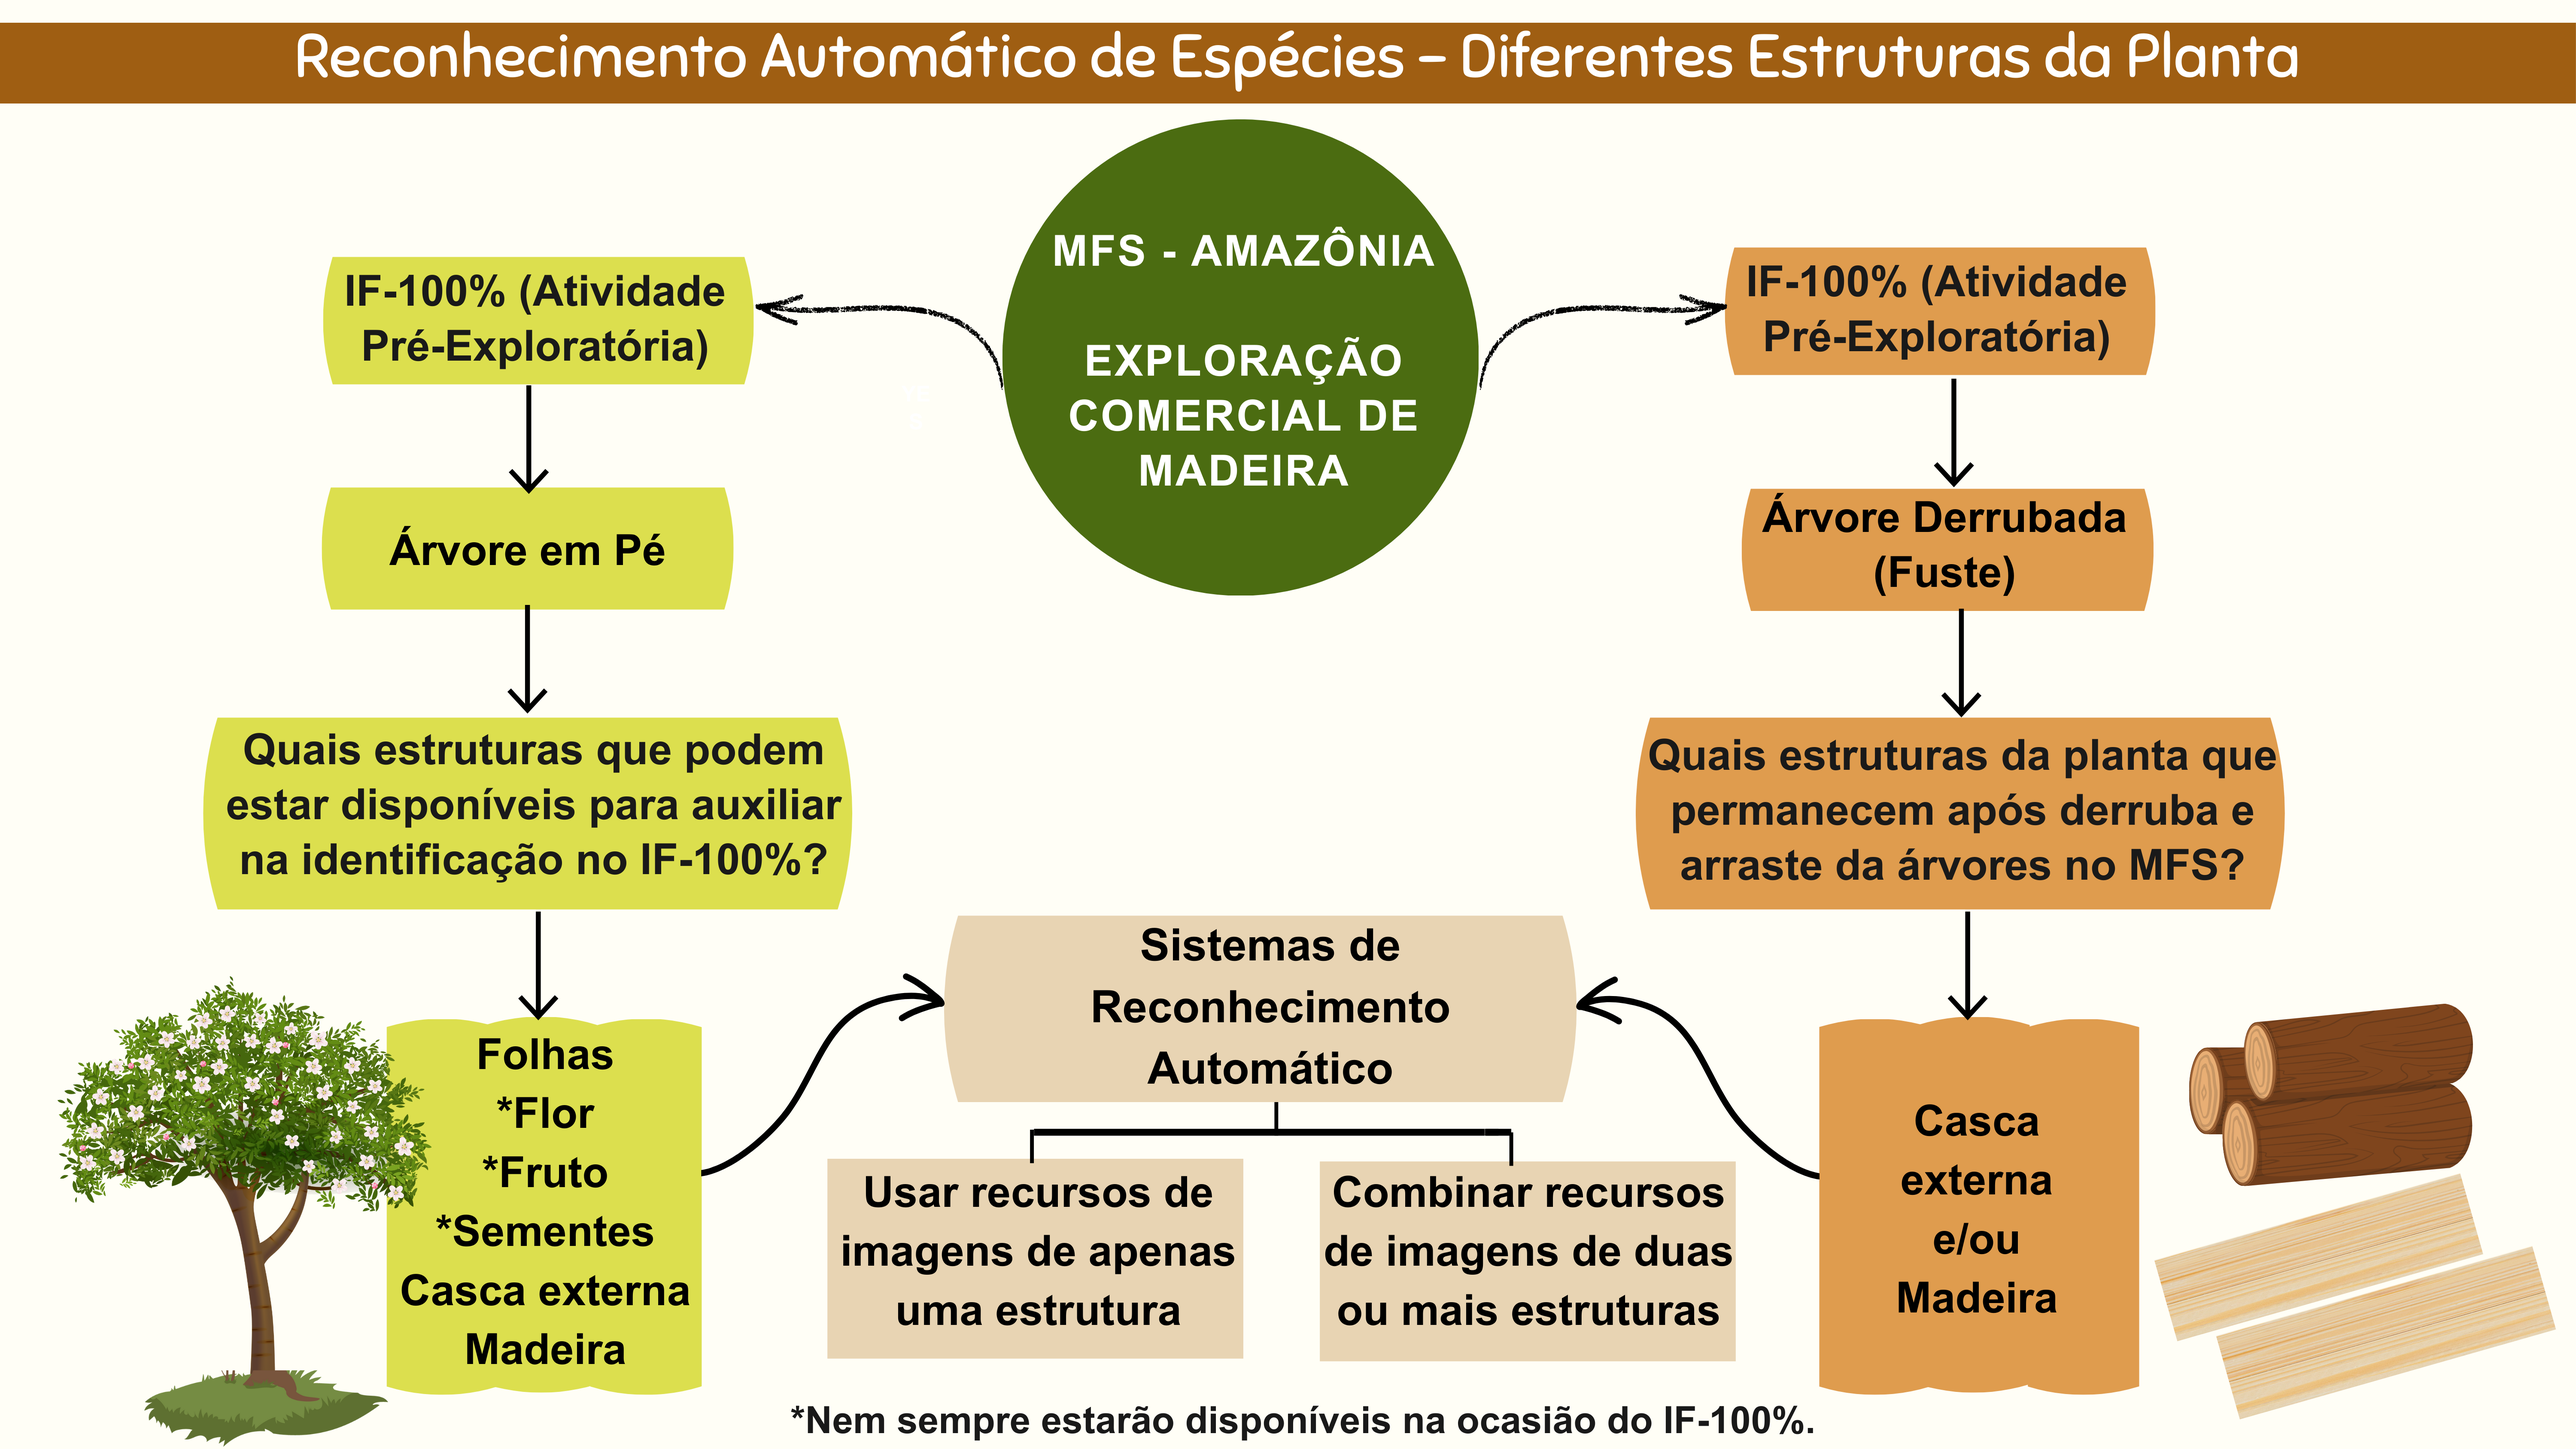
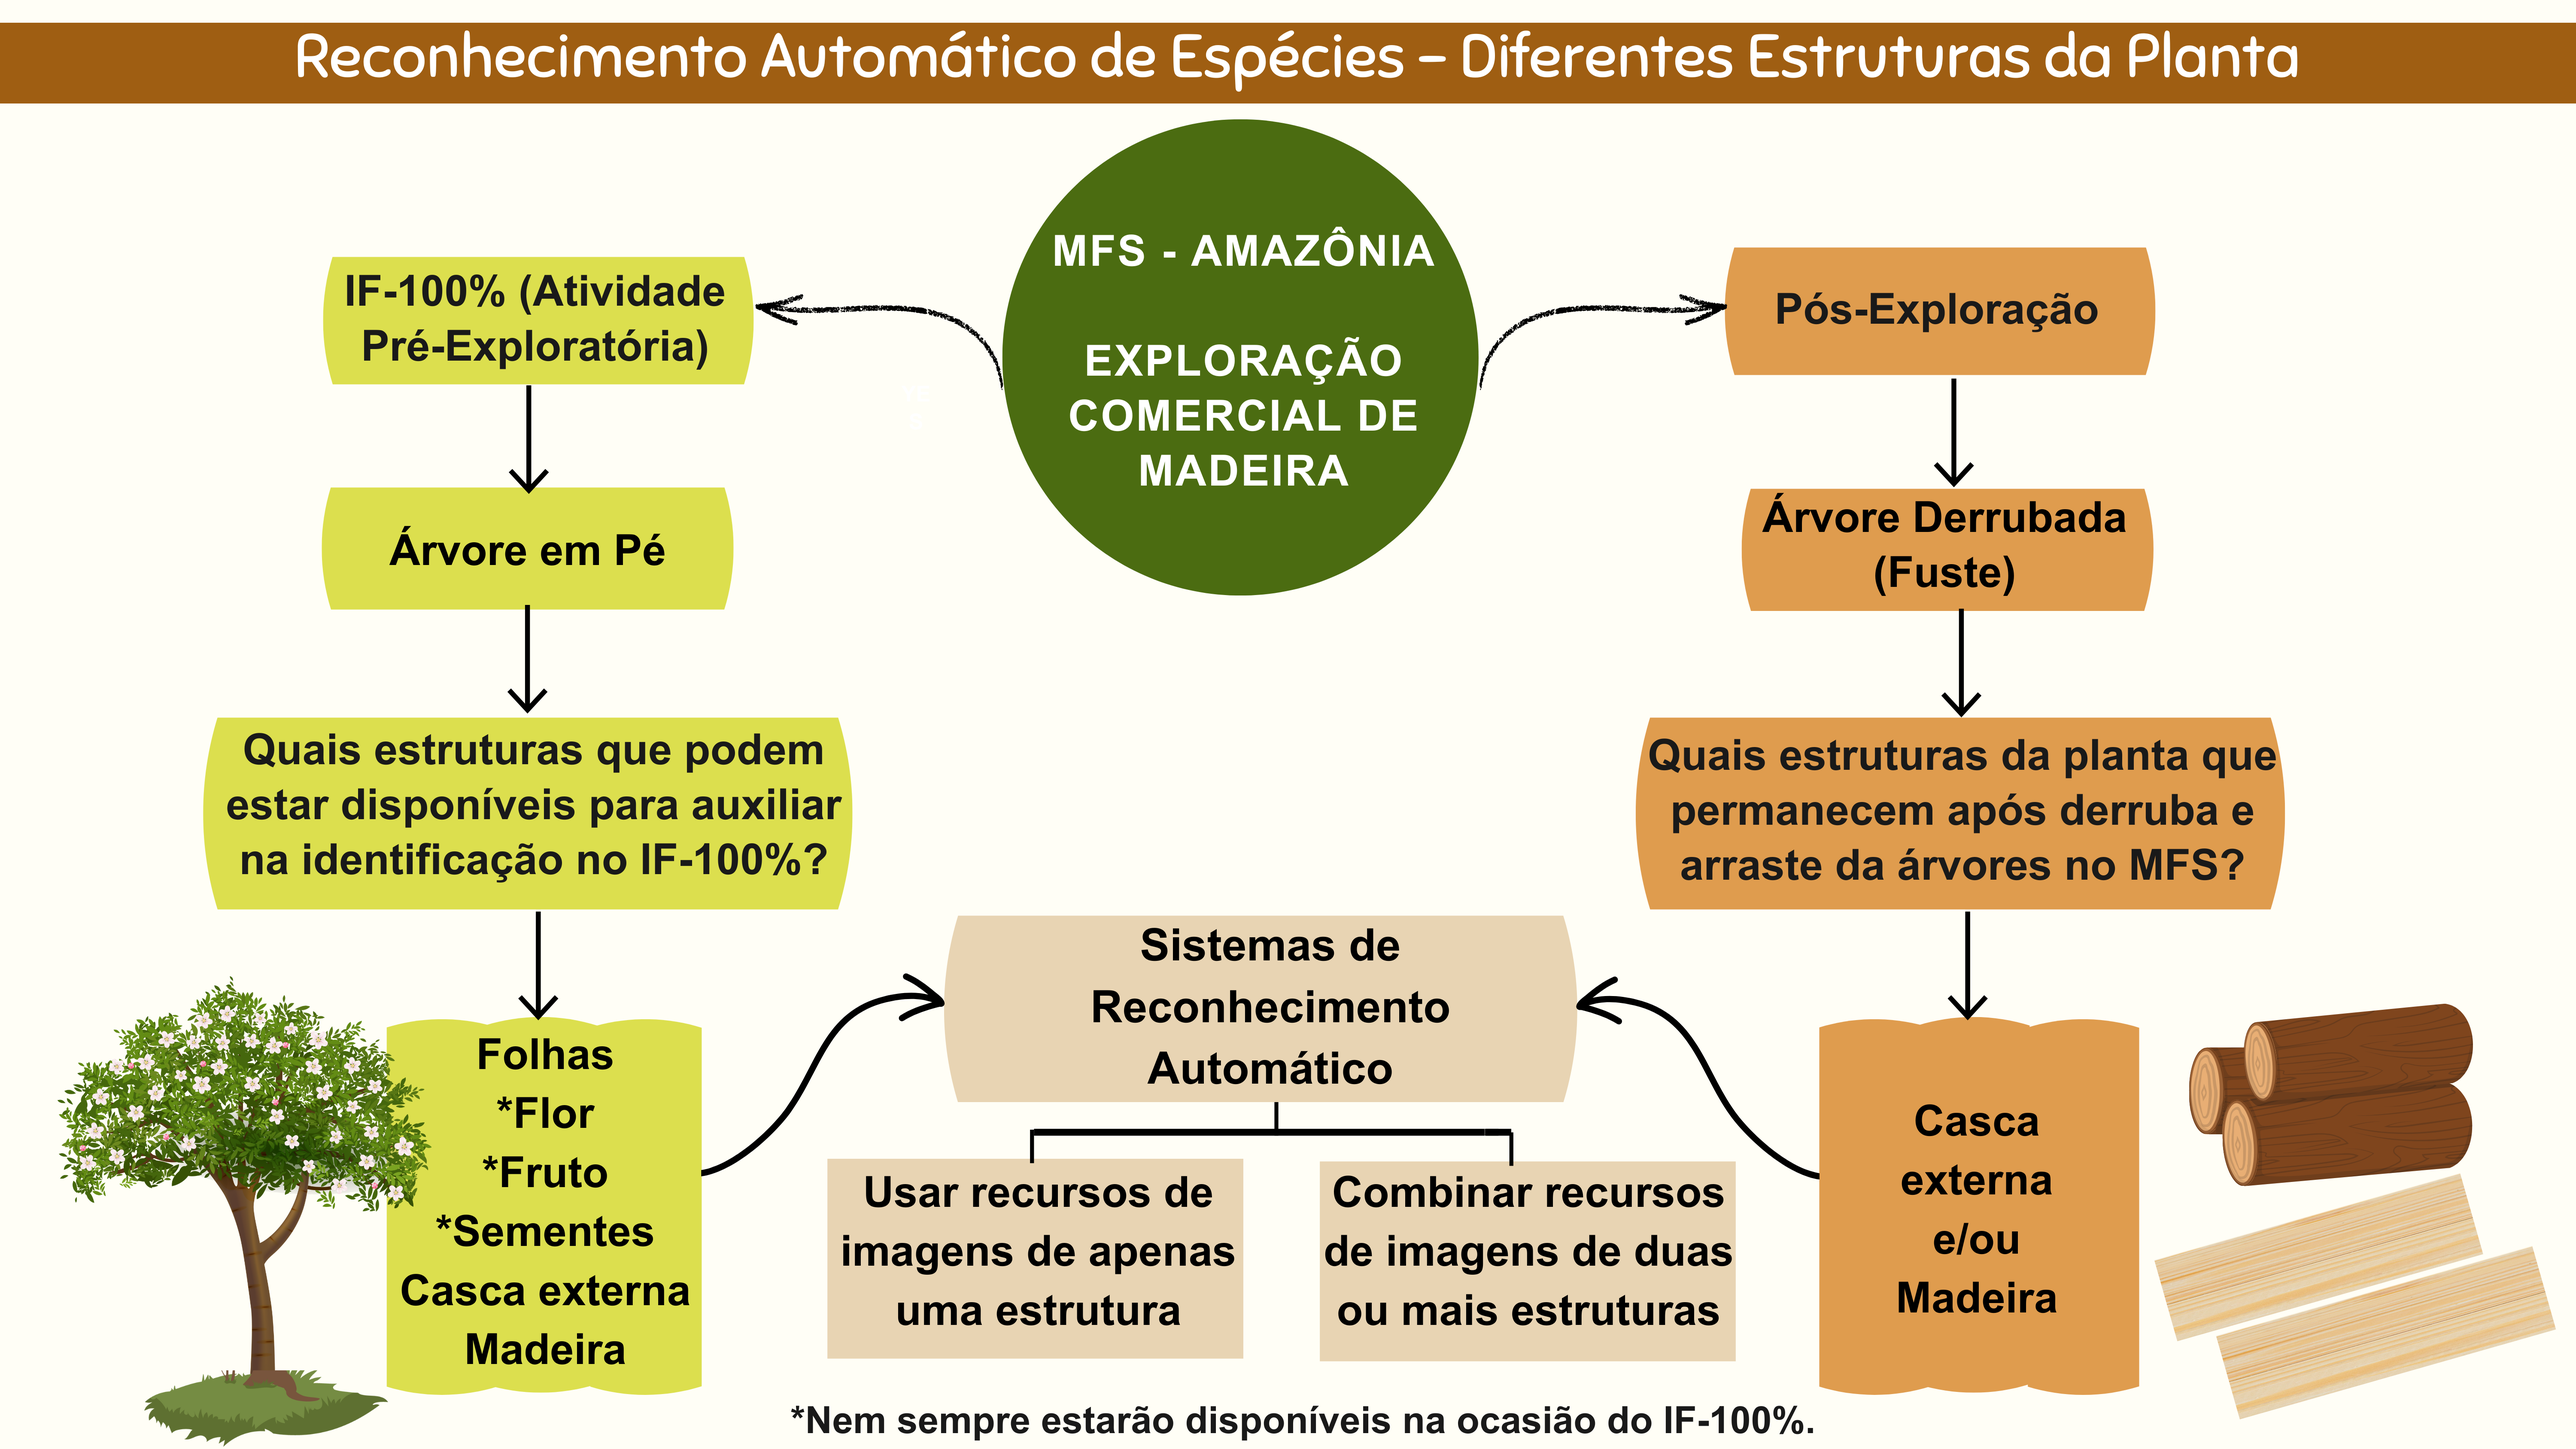
Update

Changed region(s): [[0.6857, 0.1867, 0.8415, 0.2489]]

diff --git a/Slides/01-CNN-Flora.html b/Slides/01-CNN-Flora.html
@@ -17,7 +17,7 @@
     <script src="01-CNN-Flora_files/xaringanExtra-shareagain-0.2.6/shareagain.js"></script>
     <script src="01-CNN-Flora_files/xaringanExtra-progressBar-0.0.1/progress-bar.js"></script>
     <link href="01-CNN-Flora_files/xaringanExtra-extra-styles-0.2.6/xaringanExtra-extra-styles.css" rel="stylesheet" />
-    <script type="application/json" id="xaringanExtra-editable-docid">{"id":"xd952cb313e141928f4e175d5bf1aefb","expires":1}</script>
+    <script type="application/json" id="xaringanExtra-editable-docid">{"id":"x78b850a758c4014b6d48f33c8206c50","expires":1}</script>
     <script src="01-CNN-Flora_files/himalaya-1.1.0/himalaya.js"></script>
     <script src="01-CNN-Flora_files/js-cookie-3.0.0/js.cookie.js"></script>
     <link href="01-CNN-Flora_files/editable-0.2.6/editable.css" rel="stylesheet" />
@@ -96,7 +96,7 @@ background-size: 130px, 110px, 150px, 130px, 500px, cover
 ##### 👨🏻👩🏻👦🏻👦🏻 [@lmftca_ufpa](https://www.instagram.com/lmftca_ufpa/)
 ##### 🌎 [https://www.lmftca.com.br/](https://www.lmftca.com.br/)
 &lt;br&gt;
-##### 1ª versão: 08/setembro/2025 &lt;br&gt; (Atualizado em: 08/setembro/2025) &lt;br&gt; Altamira, Pará
+##### 1ª versão: 08/setembro/2025 &lt;br&gt; (Atualizado em: 09/setembro/2025) &lt;br&gt; Altamira, Pará
 
 ---
 layout: true
